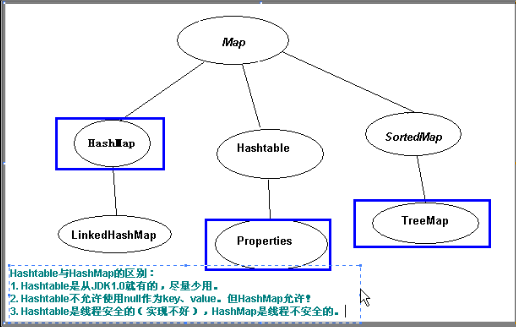
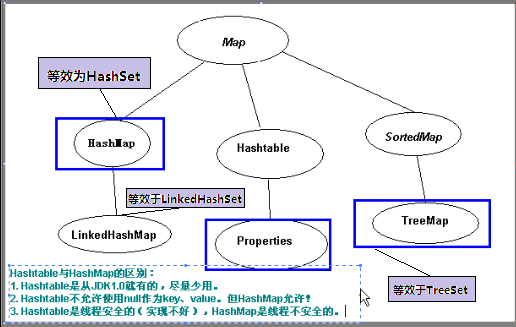
alter

Changed region(s): [[0.062, 0.1529, 0.3101, 0.2752], [0.7442, 0.8257, 0.9302, 0.948], [0.2171, 0.5505, 0.4961, 0.6422]]

diff --git a/Javanote.md b/Javanote.md
@@ -2337,7 +2337,10 @@ b. loadFactor：负载因子。
 这里的一致，指的是必须在这两个方法中要考虑相同多的类属性。  
 那就是：
 >
-在`equals()`方法中要保证`name`与`num`属性都相等才行，那么在`hashCode()`方法中也必须使用这两个属性来求出`hash`值，从而保证返回的`hash`值能够代表这个两个属性。俱缺一不可。
+在`equals()`方法中要保证`name`与`num`属性都相等才行，那么在`hashCode()`方法中也必须使用这两个属性来求出`hash`值，从而保证返回的`hash`值能够代表这个两个属性。俱缺一不可。  
+
+也就是说，对于我们自己写的类对象，如果要存入`HashSet`中，那么就要正确重写`equals()`方法与`hashCode()`方法。  
+但是对于已经在**JDK**中有的类，我们就不必自己重写这两个方法。因为**JDK**中的类继c承自`Object`类，都已经实现了这两个方法。  
 
 因此，这两个方法相对于上面的必须改写为：
 >
@@ -2679,27 +2682,27 @@ b. loadFactor：负载因子。
 所谓的重构：就是让方法适用于更多的情况。
 
 ##Map接口的使用(见图：`Map_Structure.png`)
-`Map`里面存放的东西是：很多的`key-value`对。每一项数据都是这样的键值对。也就是说，`map`就是很多的`key-value`对的集合。
+`Map`里面存放的东西是：很多的`key-value`对。每一项数据都是这样的键值对。也就是说，`Map`就是很多的`key-value`对的集合。
   
-`map`中将`value`当做`key`的附属物。在`key-value`的存储中，只需考虑`key`的存储即可。可以存储之后，`value`会跟着`key`进行存储。  
+`Map`中将`value`当做`key`的附属物。在`key-value`的存储中，只需考虑`key`的存储即可。`key`存储之后，`value`会跟着`key`进行存储。  
 如果，只考虑`key`的存储，那么将所有的`key`存储在一起，就是一个`Set`。 
  
-实际上，`map`与`Set`的一一对应的：
+实际上，`Map`与`Set`的一一对应的：
 `HashSet`的底层是依靠`HashMap`实现的，`HashMap`依靠`hash`算法以确定在其底层数组中的位置。  
 `TreeSet`的底层是依靠`TreeMap`实现的，`TreeSet`底层就是一个**红黑树**。
   
-常用的实现了`map`接口的类有3个：`HashMap`与`TreeMap`、`HashTable`。  
-a. `HashMap`  
+常用的实现了`Map`接口的类有3个：`HashMap`与`TreeMap`、`HashTable`。  
+### `HashMap`实现类  
 会根据其存、取的元素对象的`key`值的`hashCode()`方法的返回值来确定这个`key`值的存放位置，也随之确定`key-value`对的储存位置。  
 
-*`HashMap`也不允许`key`重复。那么怎样才是`key`重复。*  
+`HashMap`也不允许`key`重复。那么怎样才是`key`重复？这里和`HashSet`是一样的。  
 - 通过`equals()`返回`true`.    
 - 通过`hashCode()`返回值相等.   
 那么，在我们用一个**自己写的类**作为`HashMap`的`key`的时候，必须要自己正确地重写这个类的`equals()`方法和`hashCode()`方法；  
-但是对于已经在**JDK**中有的类，我们就不必自己重写这两个方法。因为**JDK**中的类继承自Object类，都已经实现了这两个方法。  
+但是对于已经在`JDK`中有的类，我们就不必自己重写这两个方法。因为`JDK`中的类继承自`Object`类，都已经实现了这两个方法。  
 `HashMap`实际上是无序放置的，所以，为了有序存、取。可以使用`HashMap`的子类`LinkedHashMap`来进行存取。这样就是有序的。
 
-`HashMap`的使用:
+`HashMap`的使用示例:
 >
 	import java.util.*;
 	class apple
@@ -2772,20 +2775,21 @@ a. `HashMap`
 		}
 	}  
 
-b. `TreeMap`  
+### `TreeMap`实现类  
 其底层的红黑树只对`key`进行排序放置。这就表示`key`必须是可以比较大小的。  
 - 自然排序：对于`key`都要实现`Comparable`接口。  
 - 定制排序：要求在创建`TreeMap`的时候提供一个`Comparator`以实现比较。
 
-*`TreeMap`也不允许`key`重复。那么怎样才是`key`重复。*  
-- 只要这两个元素对象通过`compare()`方法返回值是0，那么`TreeSet`就认为二对象相等。而与`equals()`方法无关（只与`compare()`方法有关）。所以我们要重写放入`TreeSet`中的元素对象的所属类中`compareTo()`方法。这个方法是`comparable`接口中的方法，所以，对于我们自己所写的类，必须要实现这个接口中这个唯一的这个方法。
+`TreeMap`也不允许`key`重复。那么怎样才是`key`重复？  
+- 只要这两个元素对象通过`compare()`方法返回值是0，那么`TreeSet`就认为二对象相等。而与`equals()`方法无关（只与`compare()`方法有关）。  
+- 所以我们要重写放入`TreeSet`中的元素对象的所属类中`compareTo()`方法。这个方法是`comparable`接口中的方法，所以，对于我们自己所写的类，必须要实现这个接口中这个唯一的这个方法。
 
 如果是**JDK**已有的类，我们就不必去自己实现这个方法了，因为已有的类以及实现了这个方法。这就是*自然排序*。  
  
 对于我们自己写的类需要自己去实现这个`compare()`方法或者我们对于JDK中已有的类希望按照自己的方式去排序，就需要在创建`TreeMap`的使用要传入一个`Comparator`对象，这就是所谓的*定制排序*。  
 也就是说在我们用一个**自己写的类**作为`TreeMap`的`key`的时候，必须要自己正确地使这个类实现`Comparator`接口的`compare()`方法；实际上采用的是匿名内部类的形式给`hashMap`提供一个`Comparator`对象。
 
-`TreeMap`的使用
+`TreeMap`的使用示例：
 >
 	import java.util.*;
 	class apple 
@@ -2840,7 +2844,7 @@ b. `TreeMap`
 		public static void main(String[] args)
 		{
 			//use TreeMap class
-			//class String has implements the interface comparable itself that we do not have to implement it by ourselves.
+			//the key class String has implements the interface comparable itself that we do not have to implement it by ourselves.
 			TreeMap<String, Integer> ts = new TreeMap<>();
 			ts.put("张三",90);
 			ts.put("李四",80);
@@ -2849,7 +2853,7 @@ b. `TreeMap`
 			System.out.println(ts);
 >	
 			//use TreeMap class
-			//class apple do not has implements the interface comparator itself that we must implement it by ourselves.In this sample，we use anonymous class to override the func of compare() in the interface Compatator.
+			//the ke class apple do not has implements the interface comparator itself that we must implement it by ourselves.In this sample，we use anonymous class to override the func of compare() in the interface Compatator.
 			TreeMap<apple,Integer> ts1 = new TreeMap<>(new Comparator<apple>(){
 			//use anonymous class to override the func compare() in the interface Comparator to provide a Comparator object for TreeMap.
 			@Override
@@ -2908,7 +2912,7 @@ b. `TreeMap`
 		}
 	}
 
-c. `HashTable`  
+### `HashTable`  
 `HashTable`与`HashMap`的区别：  
 - `HashTable`自**JDK1.0**开始即有，已落后，能不用就不用。与`Vector`类似。    
 - `HashTable`不允许使用`null`作`key`值，但是`HashMap`允许。  
@@ -2917,7 +2921,7 @@ c. `HashTable`
 
 总之，无论是`Set`还是`Map`。  
 1. 前面带了`Hash`表明的是这个集合存、取元素寻找位置的方式是通过`equals()`方法和`hashCode()`方法的返回值来确定存、取元素在底层数组中的位置的。  
-2. 前面带了`Tree`表明的是这个集合存、取元素的是在红黑树中进行的，这个排序过程是通过两种方式进行的，只有元素对象具有排序功能，就能够在红黑树中进行存、取。  
+2. 前面带了`Tree`表明的是这个集合存、取元素的是在红黑树中进行的，这个排序过程是通过两种方式进行的，只要元素对象具有排序功能，就能够在红黑树中进行存、取。  
 要么是对象本身就拥有比较功能，也就是**JDK**中已经提供了。要么就是我们自己写的类，需要在定义集合的时候向这个集合中通过匿名内部类的形式传入`Comparator`对象。
 
 
@@ -2927,12 +2931,12 @@ c. `HashTable`
 
 
 
-Java中的异常处理
+#Java中的异常处理
 ----------------
 
 
 
-Java中的输入与输出
+#Java中的输入与输出
 -----------
 所谓的输入与输出，实际上就是以内存为中心，硬盘↔内存，内存→显示屏，键盘→内存。这三者之间的信息传输的过程。
 
